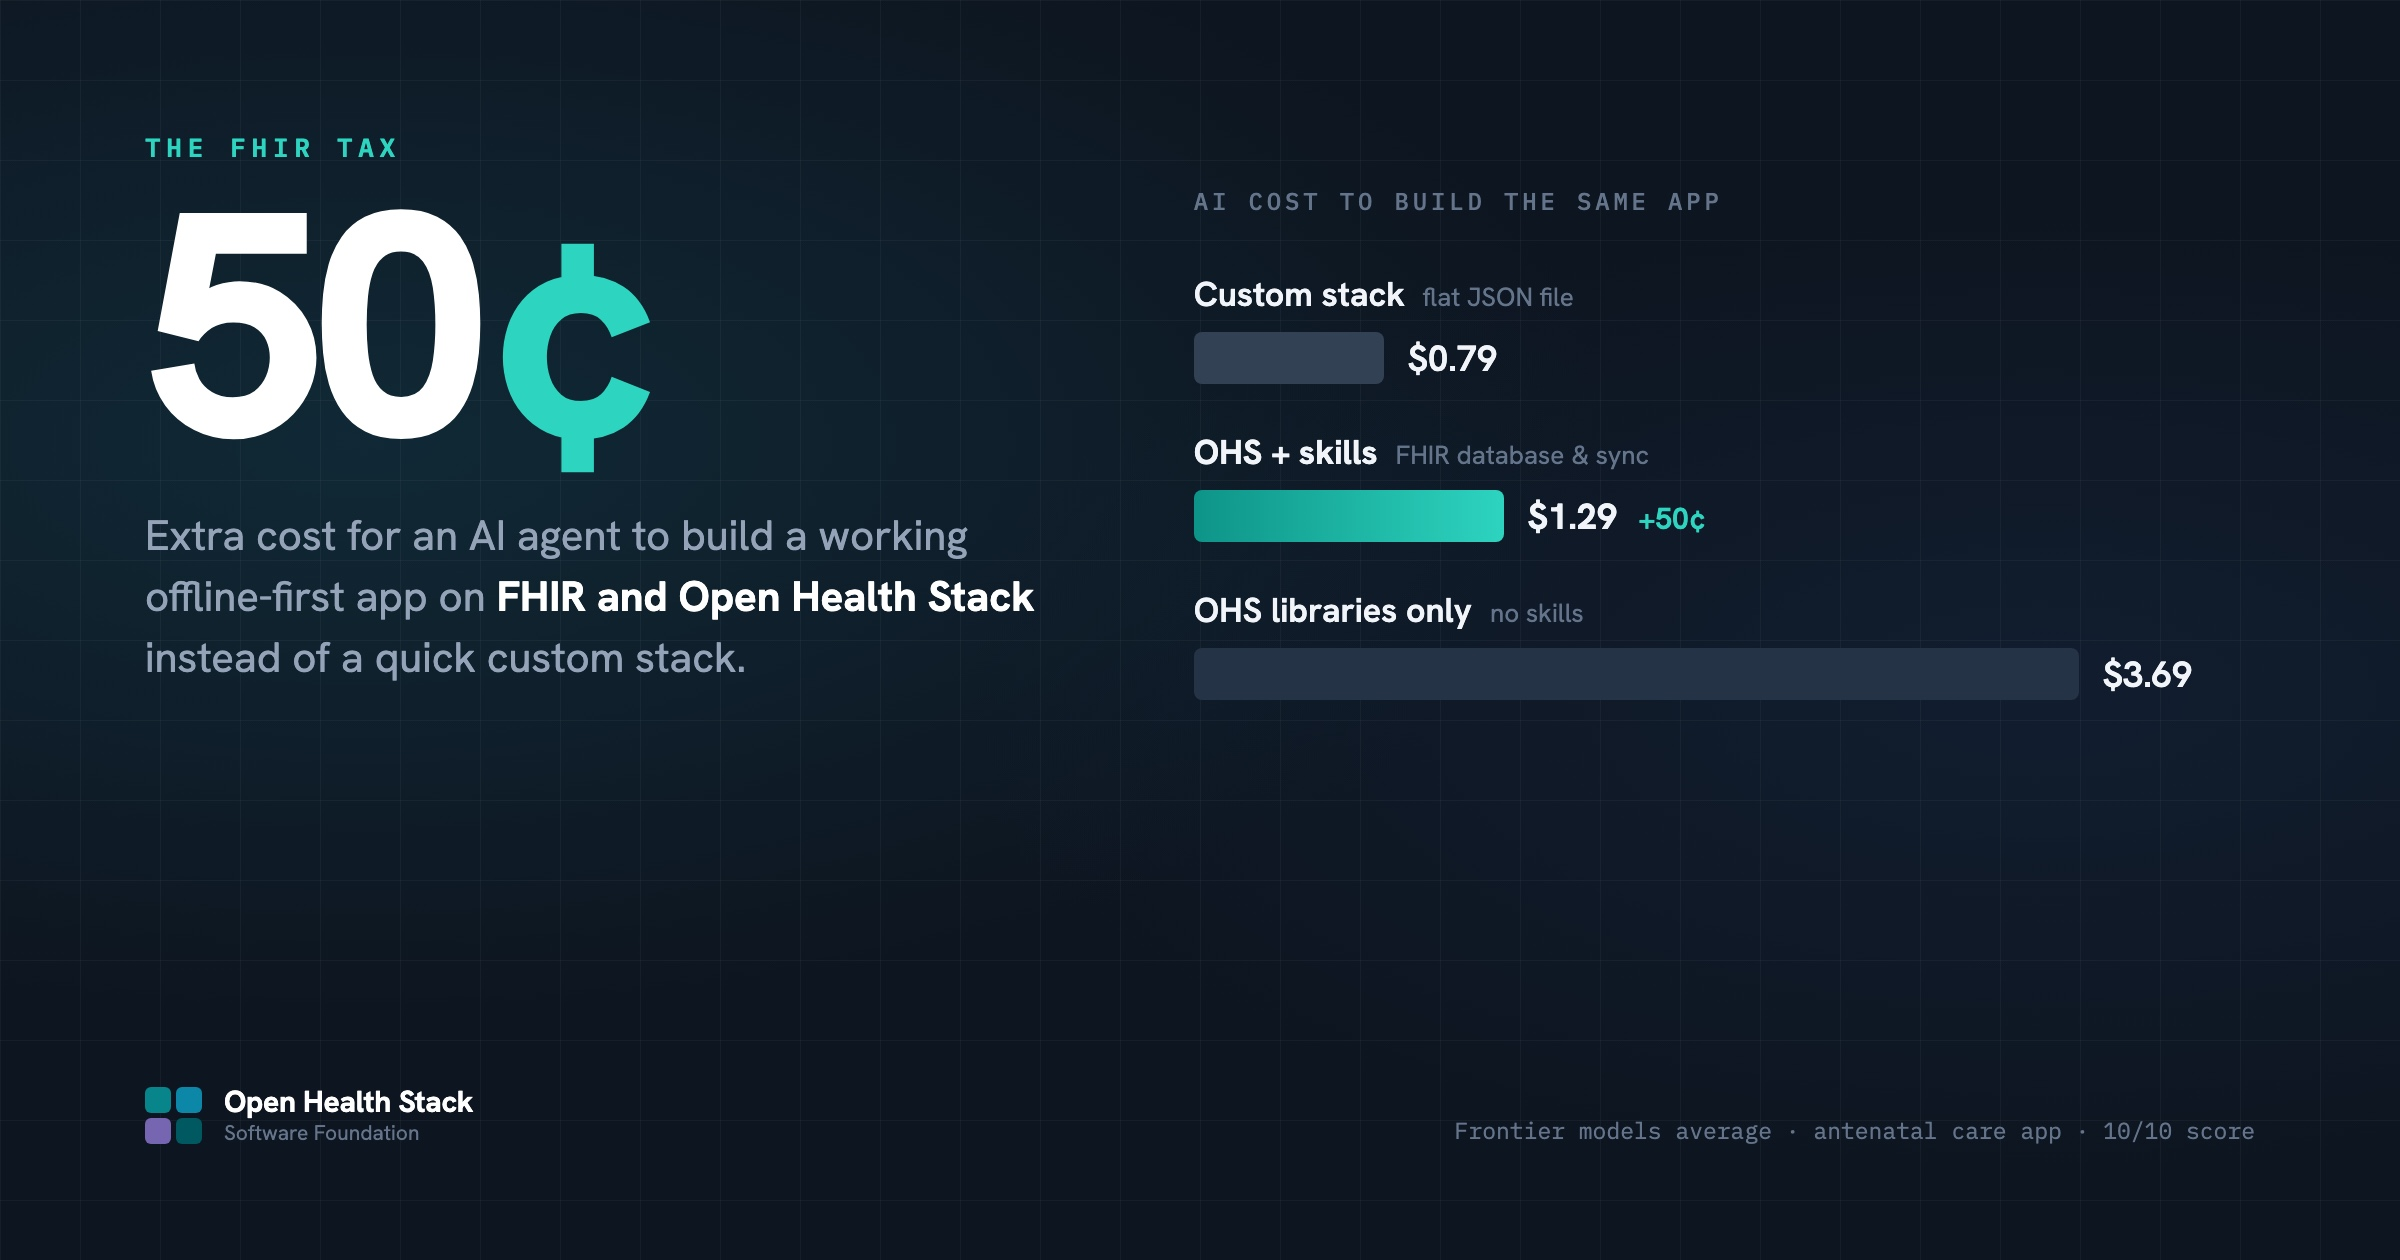
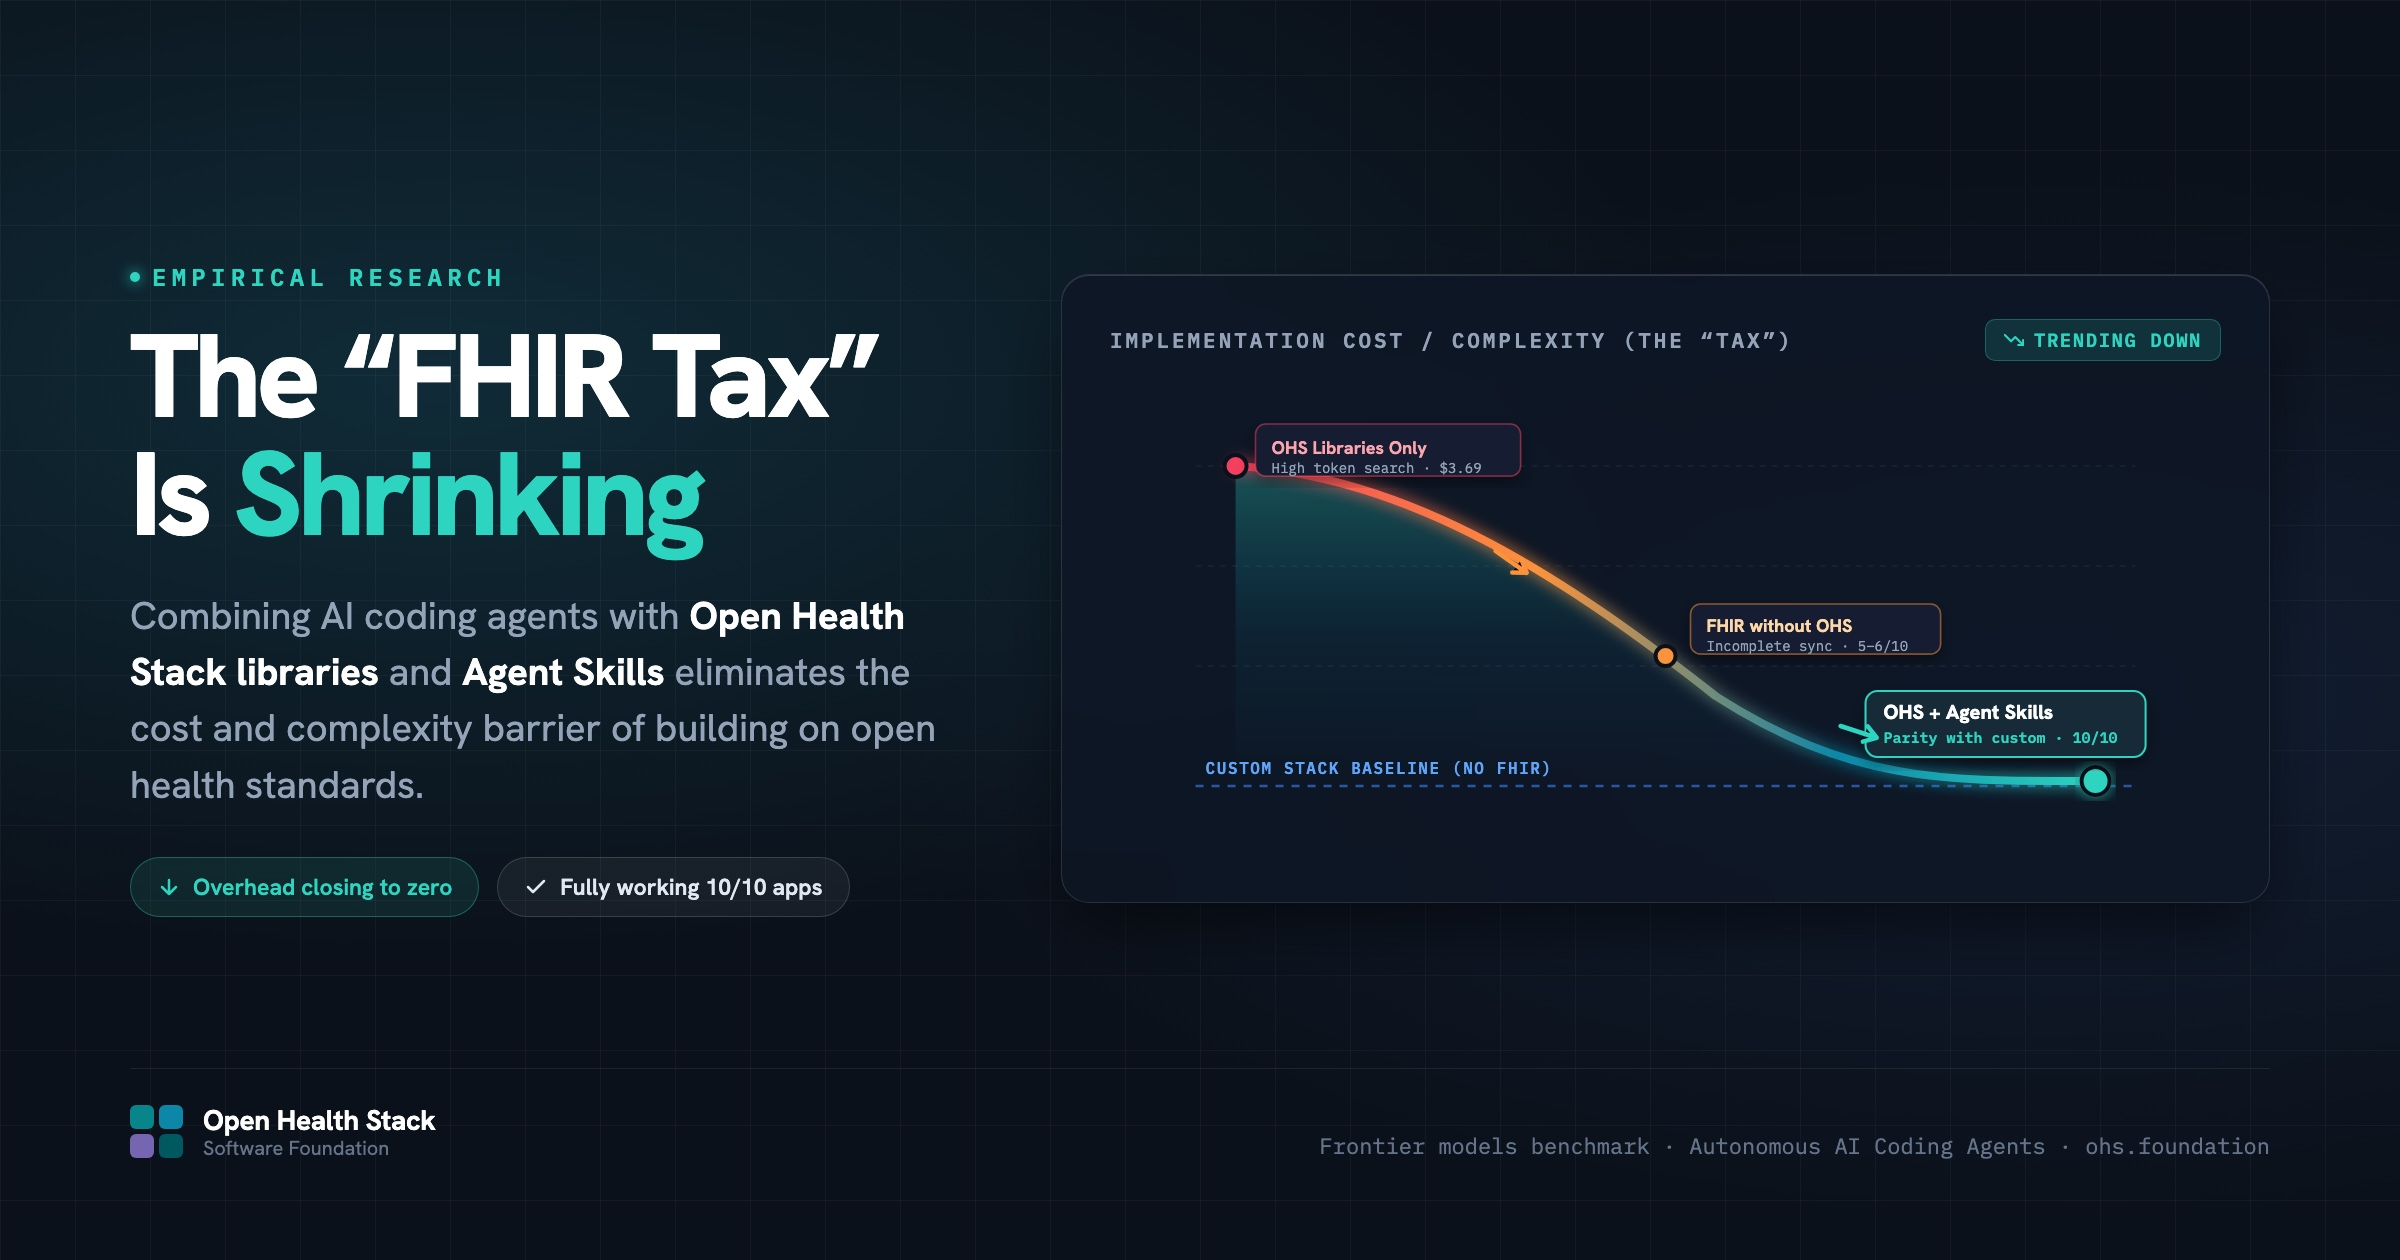
content: update post visuals with downward trending FHIR tax chart
- Remove the static 50¢ figure from cover and card images
- Replace with a visual trend line illustrating the FHIR tax plunging toward parity with the custom baseline
- Update coverAlt accessibility text in front matter

diff --git a/content/blog/fhir-standards-tax/index.md b/content/blog/fhir-standards-tax/index.md
@@ -7,7 +7,7 @@ author:
 category: "Research"
 summary: "We had AI coding agents build the same offline-first antenatal care app four ways. Combining AI coding agents with Open Health Stack libraries and Agent Skills significantly reduces the “FHIR tax” — building a fully working offline-first FHIR app for under $1."
 cover: cover.jpg
-coverAlt: "50 cents: the extra AI cost of building an offline-first app on FHIR and Open Health Stack with skills. A bar chart compares the average cost across frontier models to build the same app: custom stack $0.79, Open Health Stack with skills $1.29 (+50¢), Open Health Stack libraries only $3.69."
+coverAlt: "The “FHIR Tax” Is Shrinking: A visual trend chart shows the cost and complexity of implementing FHIR plunging down toward the custom stack baseline when AI coding agents use Open Health Stack libraries and Agent Skills."
 cardImage: card.jpg       # narrower 4:3 picture for the blog page's featured card
 shortTitle: "The “FHIR Tax” is shrinking"
 readMore: "Read the experiment"
